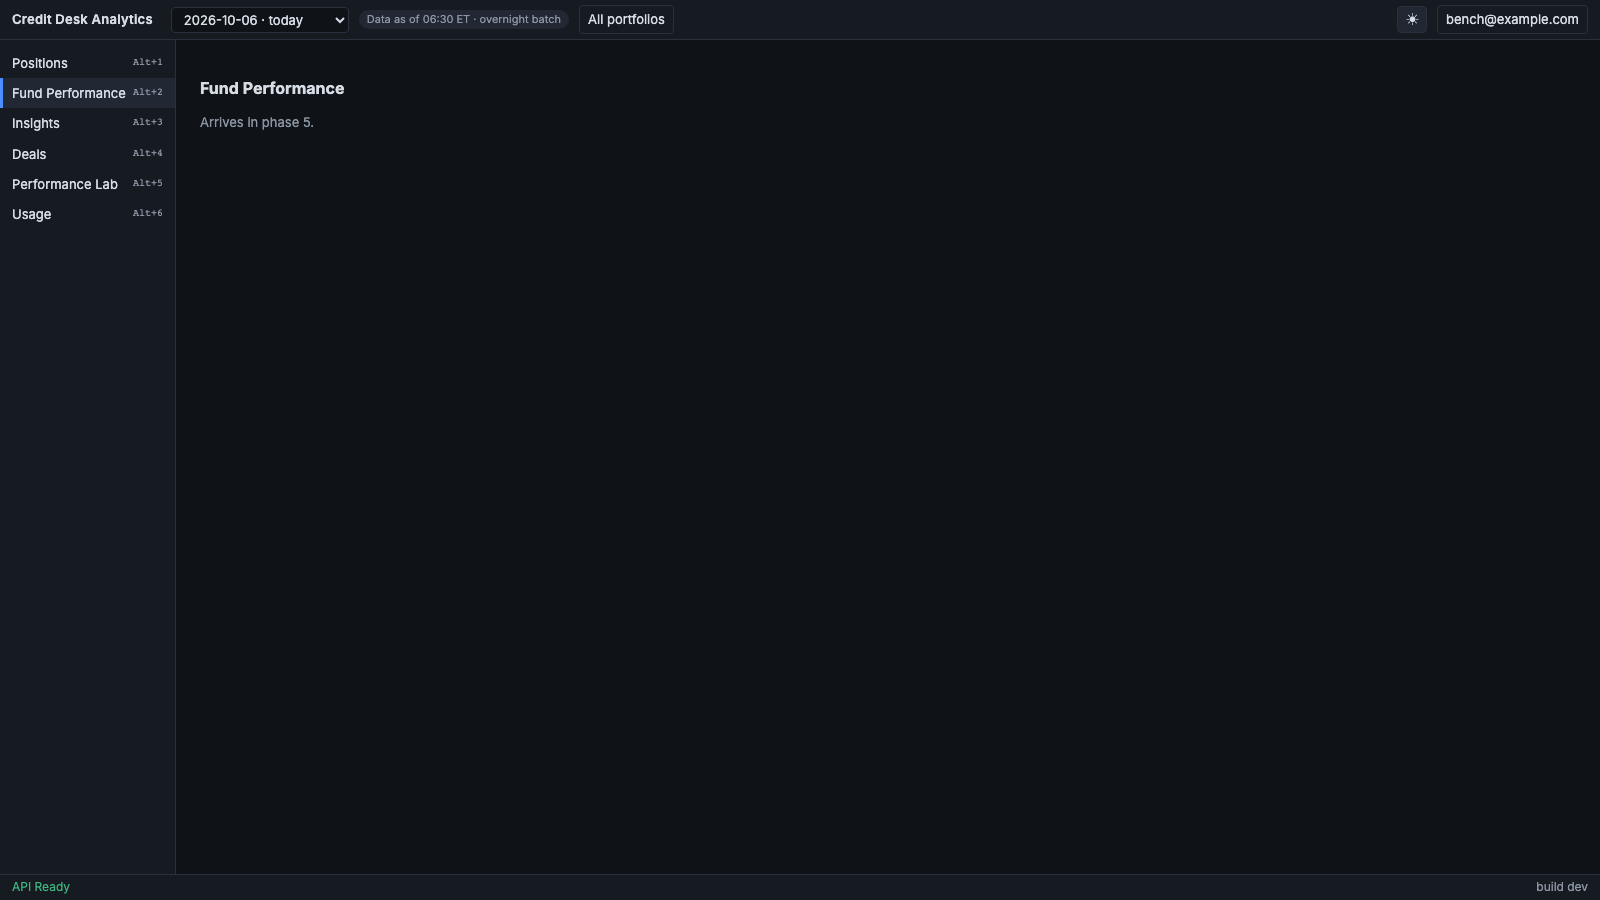
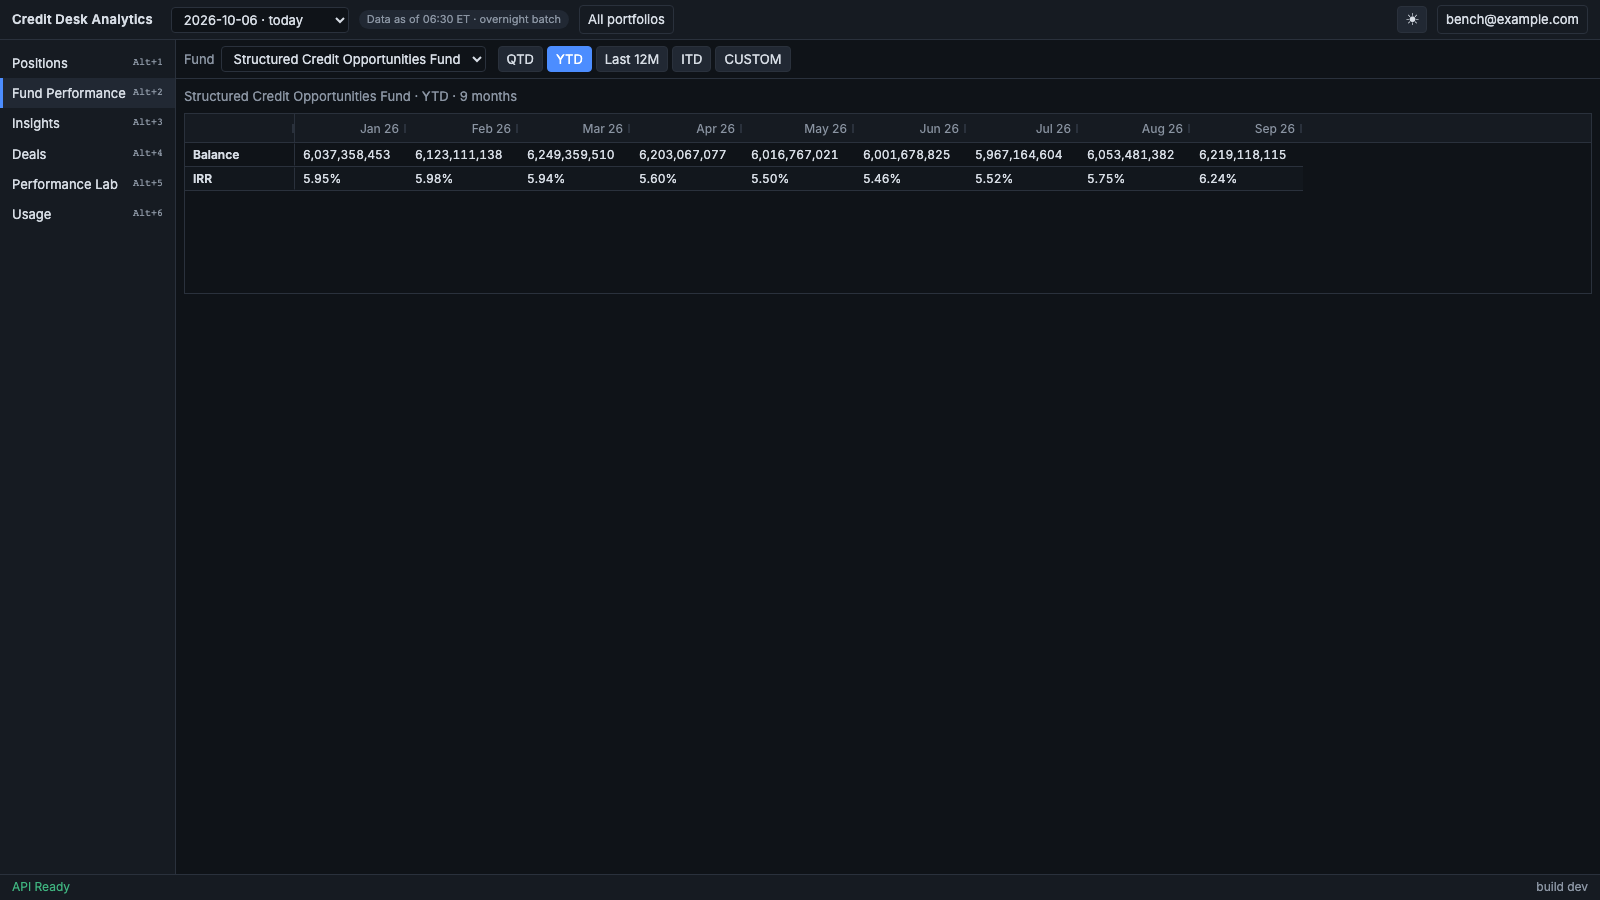
test(e2e): P2 range flips never show a stale range; mid-month inception; screenshots

Changed region(s): [[0.125, 0.0311, 0.8125, 0.2178]]

diff --git a/e2e/tests/funds.spec.ts b/e2e/tests/funds.spec.ts
@@ -1,0 +1,32 @@
+import { expect, test } from '@playwright/test';
+import { watchConsole } from './helpers';
+
+test.describe('P2 fund performance (README §6 acceptance)', () => {
+  test('flipping ranges quickly never shows a stale range', async ({ page }) => {
+    const errors = watchConsole(page);
+    await page.goto('/funds');
+    await expect(page.getByTestId('caption')).toContainText('YTD');
+    const completed: string[] = [];
+    page.on('requestfinished', (r) => { if (r.url().includes('/performance')) completed.push(new URL(r.url()).searchParams.get('range') ?? ''); });
+
+    for (const range of ['QTD', '1Y', 'ITD', 'QTD', 'ITD']) await page.getByTestId(`range-${range}`).click();
+    await expect(page.getByTestId('caption')).toContainText('ITD');
+    await page.waitForTimeout(800); // nothing older lands afterwards
+    await expect(page.getByTestId('caption')).toContainText('ITD');
+    const months = Number(/(\d+) months?/.exec((await page.getByTestId('caption').innerText()))![1]);
+    // One column per month plus the pinned label (virtualised, so read the grid's ARIA column count).
+    await expect(page.locator('[data-testid=fund-grid] [aria-colcount]').first()).toHaveAttribute('aria-colcount', String(months + 1));
+    expect(completed.at(-1)).toBe('ITD');
+    expect(errors).toEqual([]);
+  });
+
+  test('a fund with a mid-month inception starts at its first month-end', async ({ page }) => {
+    await page.goto('/funds');
+    await page.getByTestId('fund').selectOption({ label: 'Residential Credit Fund' });
+    await page.getByTestId('range-ITD').click();
+    await expect(page.getByTestId('caption')).toContainText('Residential Credit Fund · ITD');
+    // Inception 2023-03-15 (README §5.2 edge case) → the first column is the March 2023 month-end.
+    await expect(page.locator('[data-testid=fund-grid] .ag-header-cell[col-id="2023-03-31"]')).toBeVisible();
+    await expect(page.locator('[data-testid=fund-grid] .ag-header-cell[col-id="2023-02-28"]')).toHaveCount(0);
+  });
+});

diff --git a/e2e/tests/screenshots.spec.ts b/e2e/tests/screenshots.spec.ts
@@ -23,6 +23,7 @@ for (const theme of ['dark', 'light'] as const) {
       await page.goto(p.path);
       await expect(page.locator('html')).toHaveAttribute('data-theme', theme);
       if (p.name === 'positions') await gridReady(page);
+      if (p.name === 'fund-performance') await expect(page.getByTestId('caption')).toBeVisible();
       await page.waitForTimeout(400);
       await page.screenshot({ path: `${dir}/${p.name}-${theme}.png` });
     }
